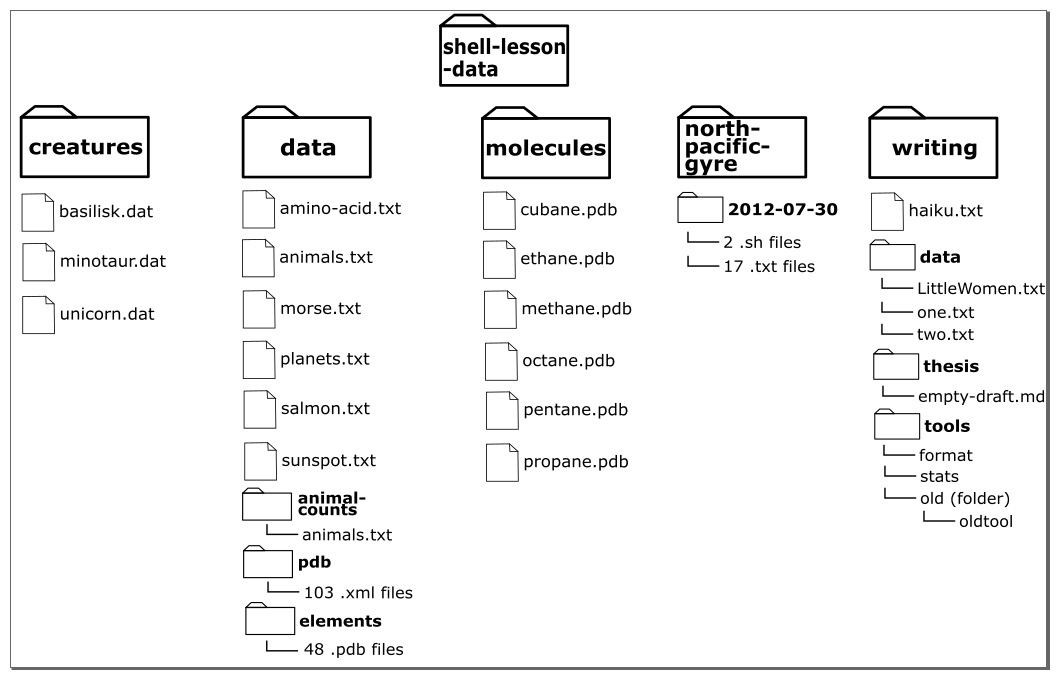
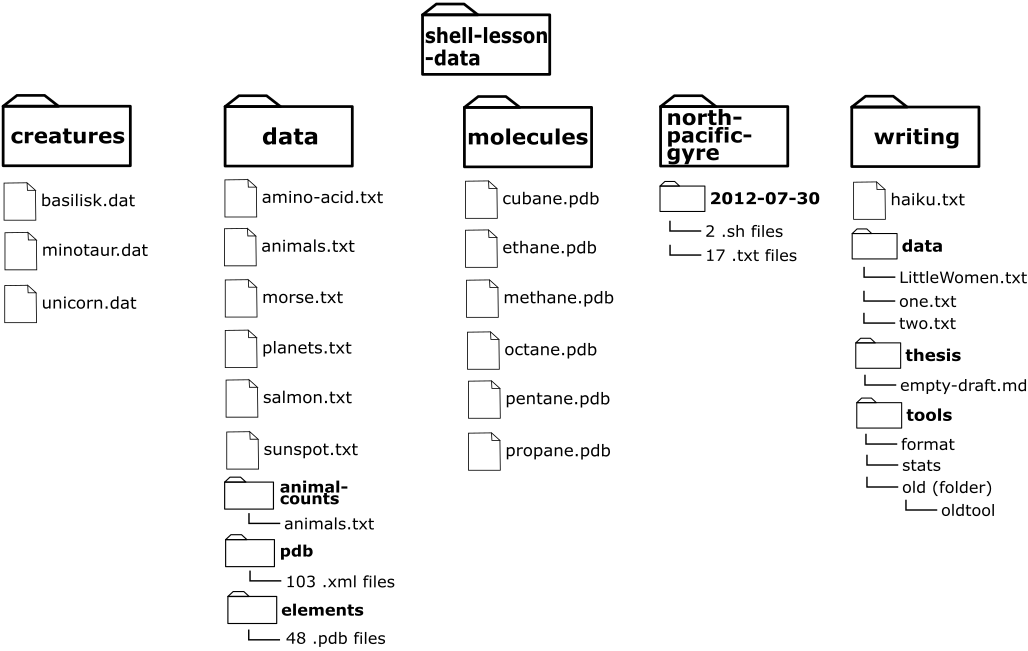
adding in content ep.2

Changed region(s): [[0.0, 0.0, 1.0, 1.0], [0.4047, 0.0, 0.5914, 0.7066], [0.0, 0.1229, 0.1556, 0.5223]]

diff --git a/_episodes/02-filedir.md b/_episodes/02-filedir.md
@@ -669,7 +669,7 @@ Run `pwd` and `ls -F` to ensure that we're in the directory we expect.
 
 > ## Relative Path Resolution
 >
-> Using the filesystem diagram od shell-lesson-data, if `pwd` displays `/shell-lesson-data/molecules`,
+> Using the filesystem diagram of shell-lesson-data, if `pwd` displays `/shell-lesson-data/molecules`,
 > what will `ls -F ../creatures` display?
 >
 > 1.  `../creatures: No such file or directory`
@@ -677,11 +677,7 @@ Run `pwd` and `ls -F` to ensure that we're in the directory we expect.
 > 3.  `basilisk.dat/ minotaur.dat/ unicorn.dat/`
 > 4.  `basilisk.dat  minotaur.dat  unicorn.dat`
 >
-> ![A directory tree below the Users directory where "/Users" contains the
-directories "backup" and "thing"; "/Users/backup" contains "original",
-"pnas_final" and "pnas_sub"; "/Users/thing" contains "backup"; and
-"/Users/thing/backup" contains "2012-12-01", "2013-01-08" and
-"2013-01-27"](../fig/filesystem-challenge.svg)
+> ![A directory tree below the shell-lesson-data directory where "/shell-lesson-data" contains the directories "creatures", "data", "molecules", "north-pacific-gyre", and "writing"](../fig/filesystem_data.png)
 >
 > > ## Solution
 > > 1. No: there *is* a directory `backup` in `/shell-lesson-data`.
@@ -695,30 +691,22 @@ directories "backup" and "thing"; "/Users/backup" contains "original",
 > ## `ls` Reading Comprehension
 >
 > Using the filesystem diagram below,
-> if `pwd` displays `/Users/backup`,
+> if `pwd` displays `/shell-lesson-data/creatures`,
 > and `-r` tells `ls` to display things in reverse order,
-> what command(s) will result in the following output:
+> what command will result in the following output:
 >
 > ~~~
-> pnas_sub/ pnas_final/ original/
+> unicorn.dat  minotaur.dat  basilisk.dat
 > ~~~
 > {: .output}
 >
-> ![A directory tree below the Users directory where "/Users" contains the
-directories "backup" and "thing"; "/Users/backup" contains "original",
-"pnas_final" and "pnas_sub"; "/Users/thing" contains "backup"; and
-"/Users/thing/backup" contains "2012-12-01", "2013-01-08" and
-"2013-01-27"](../fig/filesystem-challenge.svg)
+> ![A directory tree below the shell-lesson-data directory where "/shell-lesson-data" contains the directories "creatures", "data", "molecules", "north-pacific-gyre", and "writing"](../fig/filesystem_data.png)
 >
-> 1.  `ls pwd`
-> 2.  `ls -r -F`
-> 3.  `ls -r -F /Users/backup`
 >
 > > ## Solution
-> >  1. No: `pwd` is not the name of a directory.
-> >  2. Yes: `ls` without directory argument lists files and directories
+> >  1. `ls -r -F`: `ls` without directory argument lists files and directories
 > >     in the current directory.
-> >  3. Yes: uses the absolute path explicitly.
+> >  2. `ls -r -F /shell-lesson-data/creatures`: uses the absolute path explicitly.
 > {: .solution}
 {: .challenge}
 
